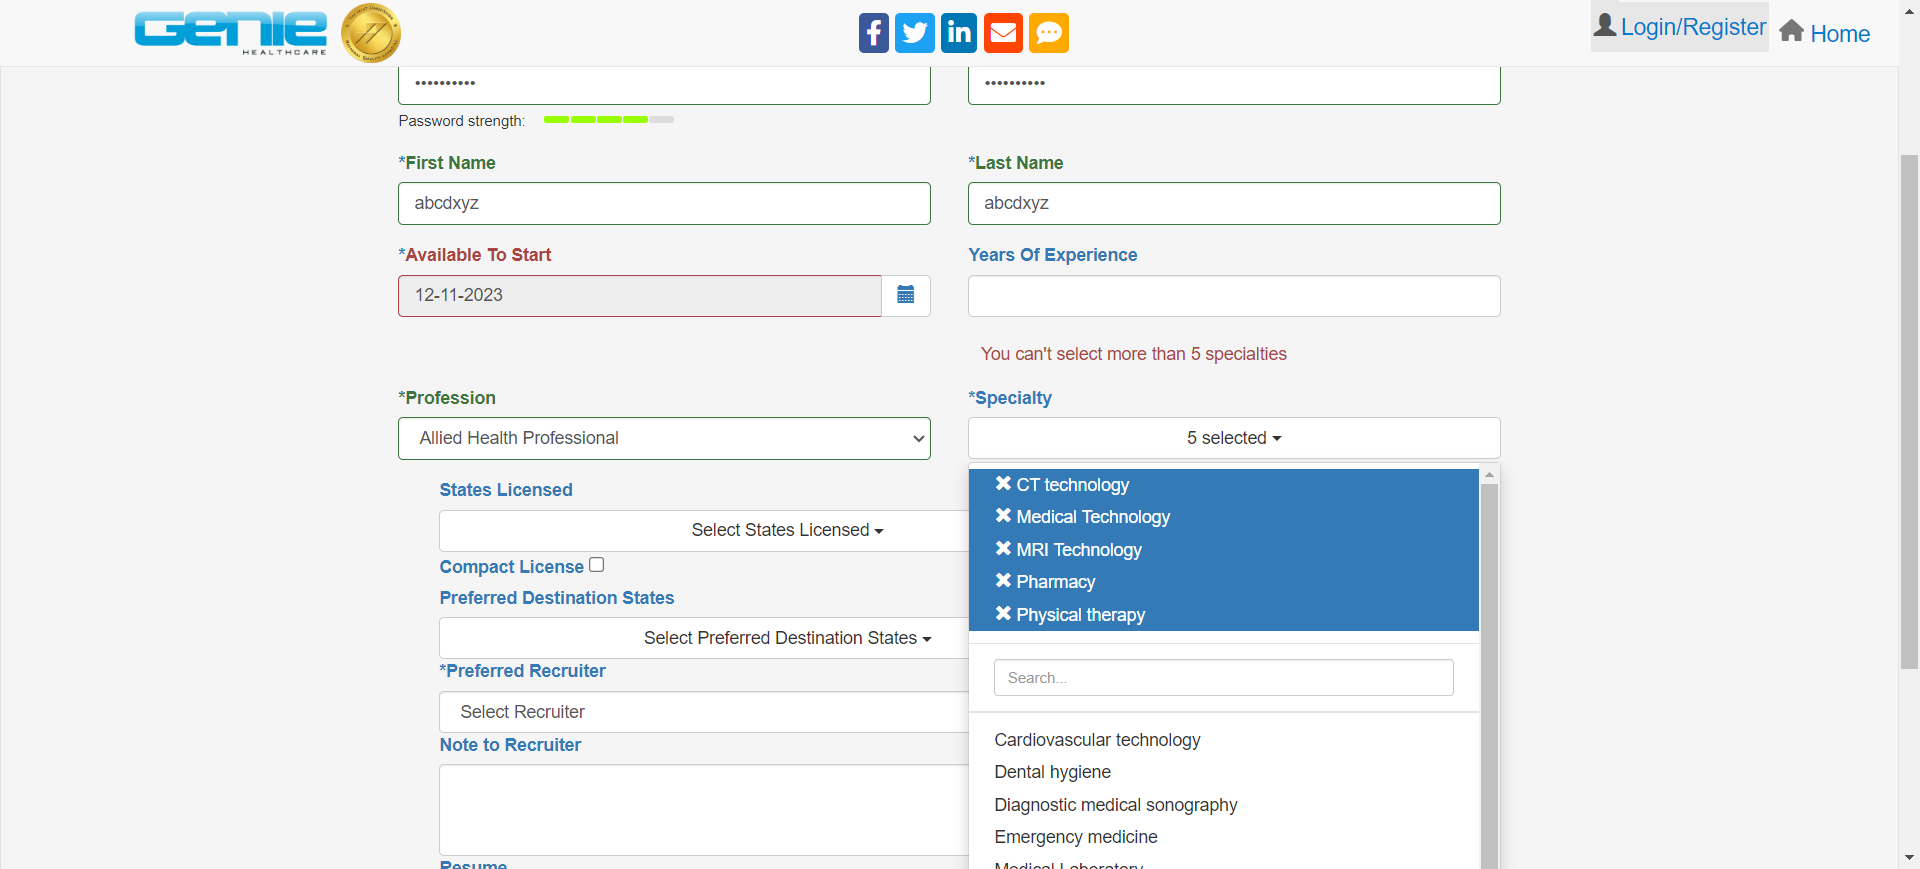
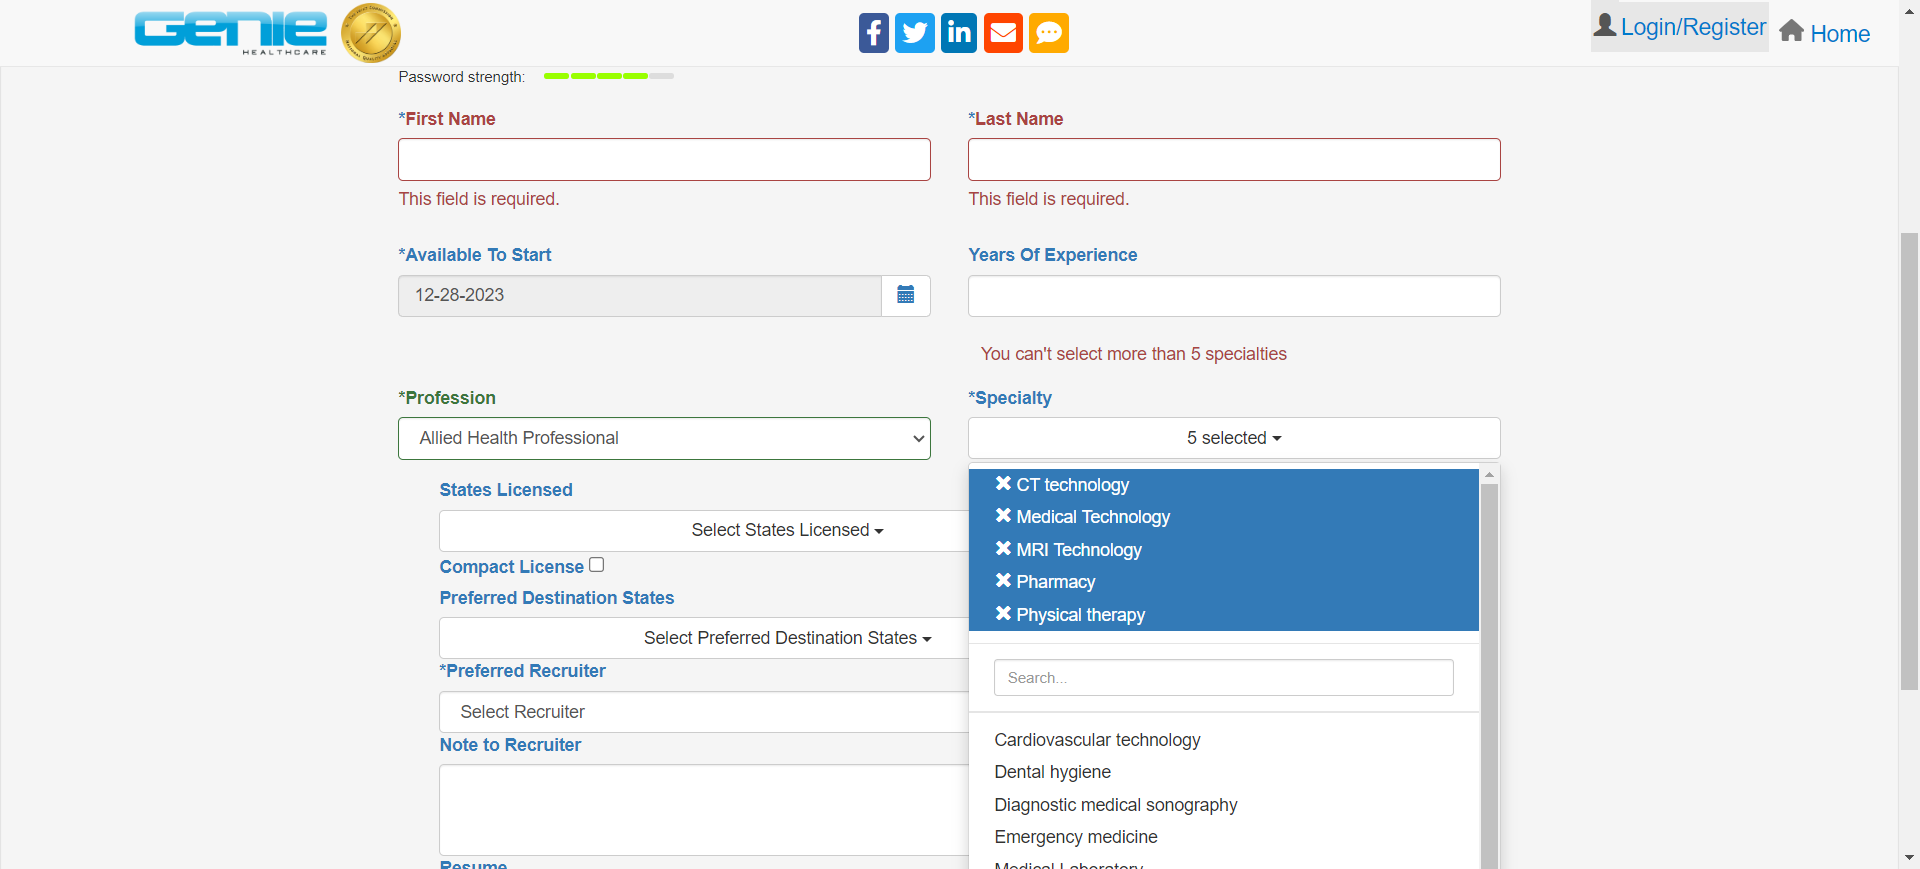
new changes

diff --git a/features/step-definitions/genieregistration.steps.js b/features/step-definitions/genieregistration.steps.js
@@ -1,7 +1,8 @@
 const { Given, When, Then } = require('@wdio/cucumber-framework');
 const genieregistrationPage = require('../pageobjects/genieregistration.page');
-const vars=require('../Variables/genievariables.json');
+const vars=require('../Properties/genievariables.json');
 const { LoginOrRegister } = require('../pageobjects/genieregister.page');
+const { elementClick } = require('../Properties/TimeOut.page');
 
 //----------Email Field-----------//
 Given(/^user is in Genie webpage$/, async() => {
@@ -16,7 +17,7 @@ When(/^user is clicks on Login Register button$/, async() => {
 });
 
 When(/^user click on Register a new Account$/, async() => {
-    await genieregistrationPage.RegisteraNewAccount.click();
+    await elementClick(genieregistrationPage.RegisteraNewAccount);
 });
 
 Then(/^verify the  is in Genie Caregiver Registration form page$/, async() => {
@@ -40,8 +41,16 @@ Then(/^verify email label$/, async() => {
 	await browser.pause(1000);
 });
 
-When(/^user clicks on email input field$/, async() => {
+When(/^user clicks on email input field and enter no data$/, async() => {
     await genieregistrationPage.emailfield.click();
+	await browser.pause(1000);
+	await genieregistrationPage.passwordfield.click();
+});
+
+Then('user able to see a email error message displayed as {string}', async(emailerror) => {
+	var errormsgEle=genieregistrationPage.thisfieldError;
+	await expect(errormsgEle).toHaveTextContaining(emailerror);
+	console.log('Errormessage :'+errormsgEle.getText());
 	await browser.pause(1000);
 });
 
@@ -52,9 +61,9 @@ When(/^user enter invalid email value$/, async(table) => {
 	await genieregistrationPage.passwordfield.click();
 });
 
-Then('verify the email error message is {string}', async(errormessage) => {
-	let errormsgEle=genieregistrationPage.invalidEmailError2;
-	await expect(errormsgEle).toHaveTextContaining(errormessage);
+Then('verify the email error message is {string}', async(emailerror) => {
+	var errormsgEle=genieregistrationPage.invalidEmailError(emailerror)
+	await expect(errormsgEle).toHaveTextContaining(emailerror);
 	console.log('Errormessage :'+errormsgEle.getText());
 	await browser.pause(1000);
 });
@@ -75,10 +84,44 @@ When(/^user enter already created mail into the email input field$/, async(table
 });
 
 Then('verify displayed error message {string}', async(errormessage2) => {
-    let errormsgEle2=await genieregistrationPage.existingEmailError;
+    var errormsgEle2=await genieregistrationPage.existingEmailError;
 	await expect(errormsgEle2).toHaveTextContaining(errormessage2);
 	await browser.pause(1000);
 });
+
+When(/^user enter minimum length email into email input field$/, async() => {
+    await genieregistrationPage.emailfield.setValue(vars.minlegthgmail);
+	await genieregistrationPage.passwordfield.click();
+});
+
+Then('user is able to see a email error message3 as {string}', async(emailerror) => {
+	var errormsgEle=genieregistrationPage.invalidEmailError(emailerror)
+	await expect(errormsgEle).toHaveTextContaining(emailerror);
+	console.log('Errormessage :'+errormsgEle.getText());
+	await browser.saveScreenshot('./Screenshots/emailerror.png');
+	await browser.pause(1000);
+});
+
+When(/^user enter miximum length email into email input field$/, async() => {
+	const characters ='ABCDEFGHIJKLMNOPQRSTUVWXYZabcdefghijklmnopqrstuvwxyz';
+	function generateString(length) {
+		let result = ' '+'@gmail.com';
+		const charactersLength = characters.length;
+		for ( let i = 0; i < length; i++ ) {
+			result += characters.charAt(Math.floor(Math.random() * charactersLength));
+		}
+		return result;
+	}
+		await genieregistrationPage.emailfield.setValue(generateString(100));
+});
+
+Then('user is able to see a email error message4 as {string}', async(emailerror) => {
+	var errormsgEle=genieregistrationPage.invalidEmailError(emailerror)
+	await expect(errormsgEle).toHaveTextContaining(emailerror);
+	console.log('Errormessage :'+errormsgEle.getText());
+	await browser.pause(1000);
+});
+
 
 When(/^user enter valid email vlaue$/, async(table) => {
     await genieregistrationPage.emailfield.clearValue();
@@ -130,6 +173,17 @@ Then('verify the displayed error message2 like {string}', async(passerror) => {
 	await browser.pause(1000);
 });
 
+When(/^user enter least character password into the password field$/, async() => {
+    await genieregistrationPage.passwordfield.click();
+	await genieregistrationPage.passwordfield.setValue(vars.leastpassword);
+});
+
+Then('verify the displayed error message3 as {string}', async(passerror) => {
+	let passerrtext=await genieregistrationPage.passwordError(passerror);
+    await await expect(passerrtext).toHaveTextContaining(passerror);
+	console.log(passerrtext.getText());
+	await browser.pause(1000);
+});
 
 // Then('verify the displayed  confirmation error message like {string}', async(confirmpasserror) => {
 // 	let confirmPasserrtext=await genieregistrationPage.confirmPassError;
@@ -229,10 +283,16 @@ When(/^user click on firstname field and enter no data$/, async() => {
 	await genieregistrationPage.Lastname.click();
 });
 
-Then('user is able to see a message {string}', async(error) => {
-	let error1=await genieregistrationPage.FirstNLastNError1;
-	await expect(error1).toHaveTextContaining(error);
-	await browser.pause(2000);
+Then('user is able to see a message {string}', async(firstnameerror) => {
+	let error1=await genieregistrationPage.FirstnameError(firstnameerror)
+	await expect(error1).toHaveTextContaining(firstnameerror);
+});
+
+Then('user also able to see lastname field error as {string}', async(lastnameerror) => {
+	await genieregistrationPage.Firstname.click();
+	let error1=await genieregistrationPage.LastnameError(lastnameerror);
+	await expect(error1).toHaveTextContaining(lastnameerror);
+	await browser.pause(1000);
 });
 
 When('user enter above Hundred characters into the input field', async() => {
@@ -248,9 +308,9 @@ function generateString(length) {
     await genieregistrationPage.Firstname.setValue(generateString(105));
 });
 
-Then('user is able to see a error message is {string}', async(error) => {
-	let error1=await genieregistrationPage.FirstNLastNError2;
-	await expect(error1).toHaveTextContaining(error);
+Then('user is able to see a error message is {string}', async(firstnameerror) => {
+	let error1=await genieregistrationPage.FirstnameError(firstnameerror);
+	await expect(error1).toHaveTextContaining(firstnameerror);
 	await browser.pause(2000);
 });
 
@@ -274,7 +334,32 @@ When(/^user  click on Lastname field$/, async() => {
 	 await browser.pause(1000);
 });
 
+When(/^user enter above Hundred characters into the lastname input field$/, async() => {
+	const characters ='ABCDEFGHIJKLMNOPQRSTUVWXYZabcdefghijklmnopqrstuvwxyz0123456789';
+	function generateString(length) {
+		let result = ' ';
+		const charactersLength = characters.length;
+		for ( let i = 0; i < length; i++ ) {
+			result += characters.charAt(Math.floor(Math.random() * charactersLength));
+		}
+		return result;
+	}
+		await genieregistrationPage.Lastname.setValue(generateString(105));
+		await browser.pause(2000);
+});
+
+// Then('user is able to see a lastname error message is {string}', async(lastnameerror) => {
+// 	let error1=await genieregistrationPage.LastnameError(lastnameerror);
+// 	await expect(error1).toHaveTextContaining(lastnameerror);
+// 	// var error1=await genieregistrationPage.LastnameError(lastnameerror).getText();
+// 	// if(error1==lastnameerror){
+//     //   console.log(error1);
+// 	// }
+// 	await browser.pause(1000);
+// });
+
 When(/^user enter valid data into the Lastname field$/, async(table) => {
+	// await genieregistrationPage.Lastname.clearValue();
 	await genieregistrationPage.Lastname.setValue(table.raw()[0][0]);
 	await browser.pause(1000);
 	await genieregistrationPage.Lastname.clearValue();
@@ -323,6 +408,7 @@ Then('user select a future date as {string}', async(date) => {
 	await genieregistrationPage.datePick(date).click();
 	await genieregistrationPage.calendarField.saveScreenshot('./Screenshots/dateText2.png');
 	await browser.pause(2000);
+
 });
 
 // -------Profession and Specialty dropdowns------//
@@ -519,7 +605,7 @@ Then(/^user able to see Preferred Recruiter field highlighted with green color$/
 });
 
 When(/^upload the resume format type as Microsoft Word Document$/, async() => {
-	const resumefilePath = './Files/Chennakeshava_Resume.doc'
+	const resumefilePath = './Files/Chennakeshava.Resume.doc'
 	console.log(resumefilePath);
 	const remoteFilePath=await browser.uploadFile(resumefilePath);
 	await browser.pause(3000);

diff --git a/features/pageobjects/genieregistration.page.js b/features/pageobjects/genieregistration.page.js
@@ -14,8 +14,11 @@ class GenieRegistration{
     get invalidEmailError1(){
         return $("//p[normalize-space()='Your email is invalid.']");
     }
-    get invalidEmailError2(){
-        return $("//p[normalize-space()='Please enter a valid email address of the format aaa@bbb.ccc']");
+    invalidEmailError(emailerror){
+        return $(`//p[normalize-space()="${emailerror}"]`);
+    }
+    get thisfieldError(){
+        return $("(//p[@class='help-block'])[1]");
     }
     get existingEmailError(){
         return $("//div[@class='alert alert-danger']");
@@ -47,11 +50,11 @@ class GenieRegistration{
     get Lastname(){
         return $("#field_lastName");
     }
-    get FirstNLastNError2(){
-        return $("//p[normalize-space()='This field cannot be longer than 100 characters.']");
+     LastnameError(lastnameerror){
+        return $(`(//div[contains(@class,'form-group required has-error')])[2]//p[normalize-space()="${lastnameerror}"]`);
     }
-    get FirstNLastNError1(){
-        return $("(//p[normalize-space()='This field is required.'])[2]");
+     FirstnameError(firstnameerror){
+        return $(`(//div[contains(@class,'form-group required has-error')])[1]//p[normalize-space()="${firstnameerror}"]`);
     }
     get calendarField(){
         return $("#field_availableToStart");
@@ -63,7 +66,7 @@ class GenieRegistration{
         return $(`//button[text()="${button}"]`);
     }
     datePick(date){
-        return $(`//button[@type='button']//span[text()="${date}"]`);  
+        return $(`//table[@class='uib-daypicker']/tbody//button[not(contains(@disabled,'disabled'))]//span[text()="${date}"]`);  
     }
     get ProfessionDropdown(){
         return $("#field_candidateProfession");

diff --git a/features/Properties/TimeOut.page.js b/features/Properties/TimeOut.page.js
@@ -3,5 +3,10 @@ class TimeOut{
     async PauseTime(){
     await browser.pause(2000); 
     } 
+   async elementClick(elem){
+    await elem.waitForDisplayed();
+    await elem.waitForClickable();
+    await elem.click();
+   }
 }
 module.exports=new TimeOut();
